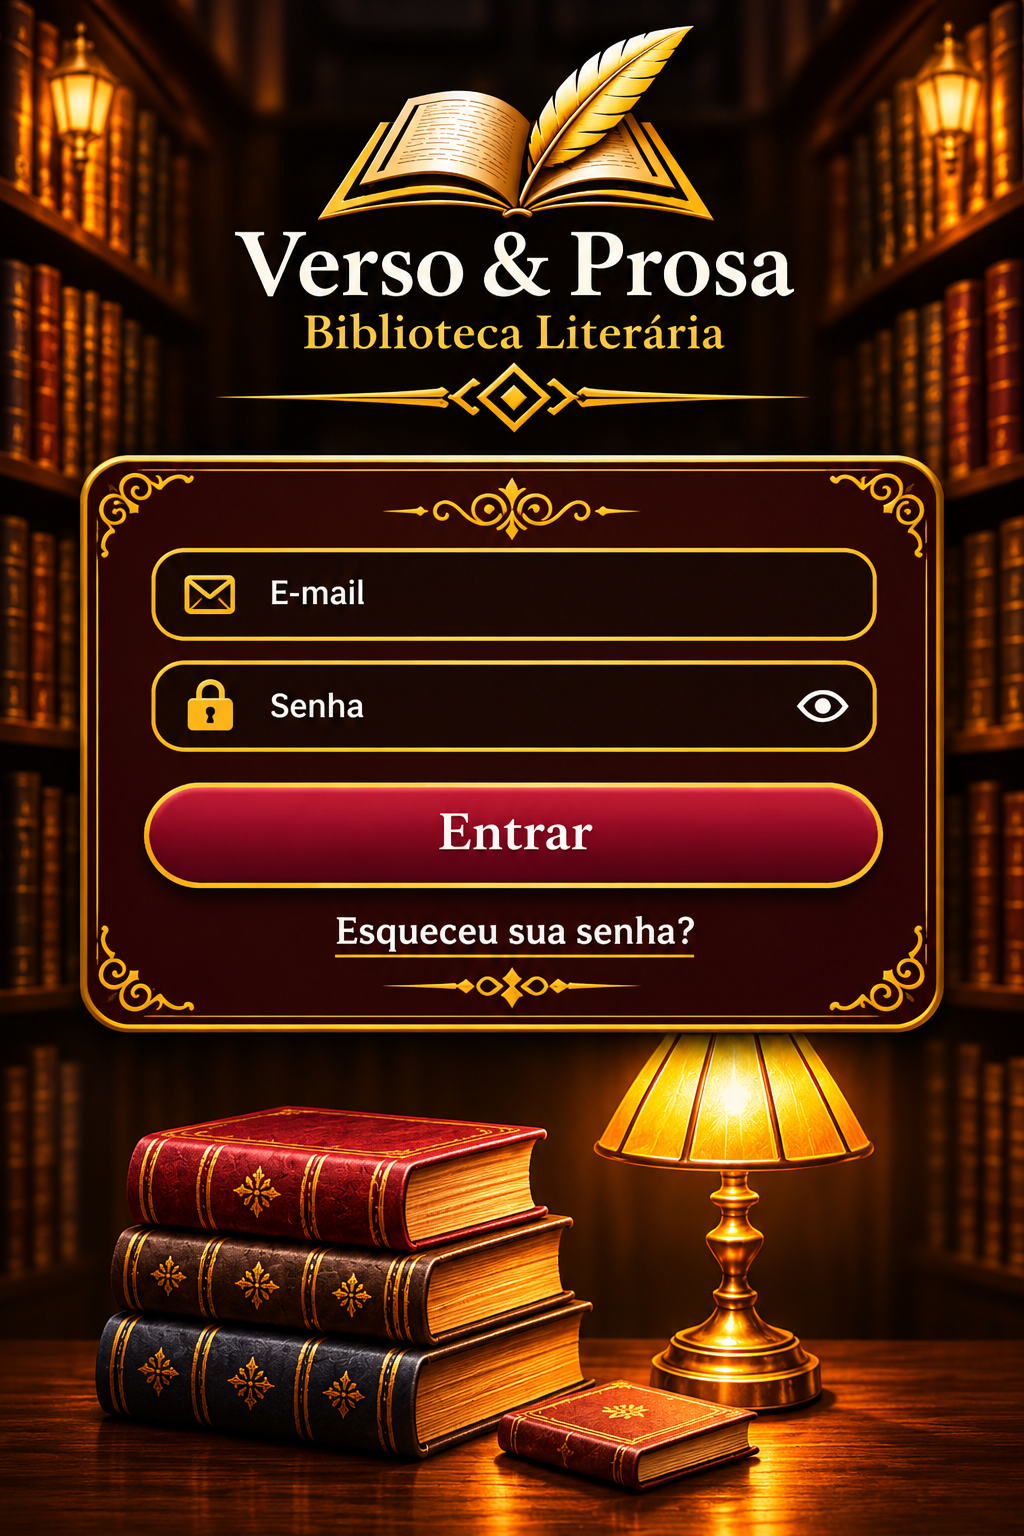
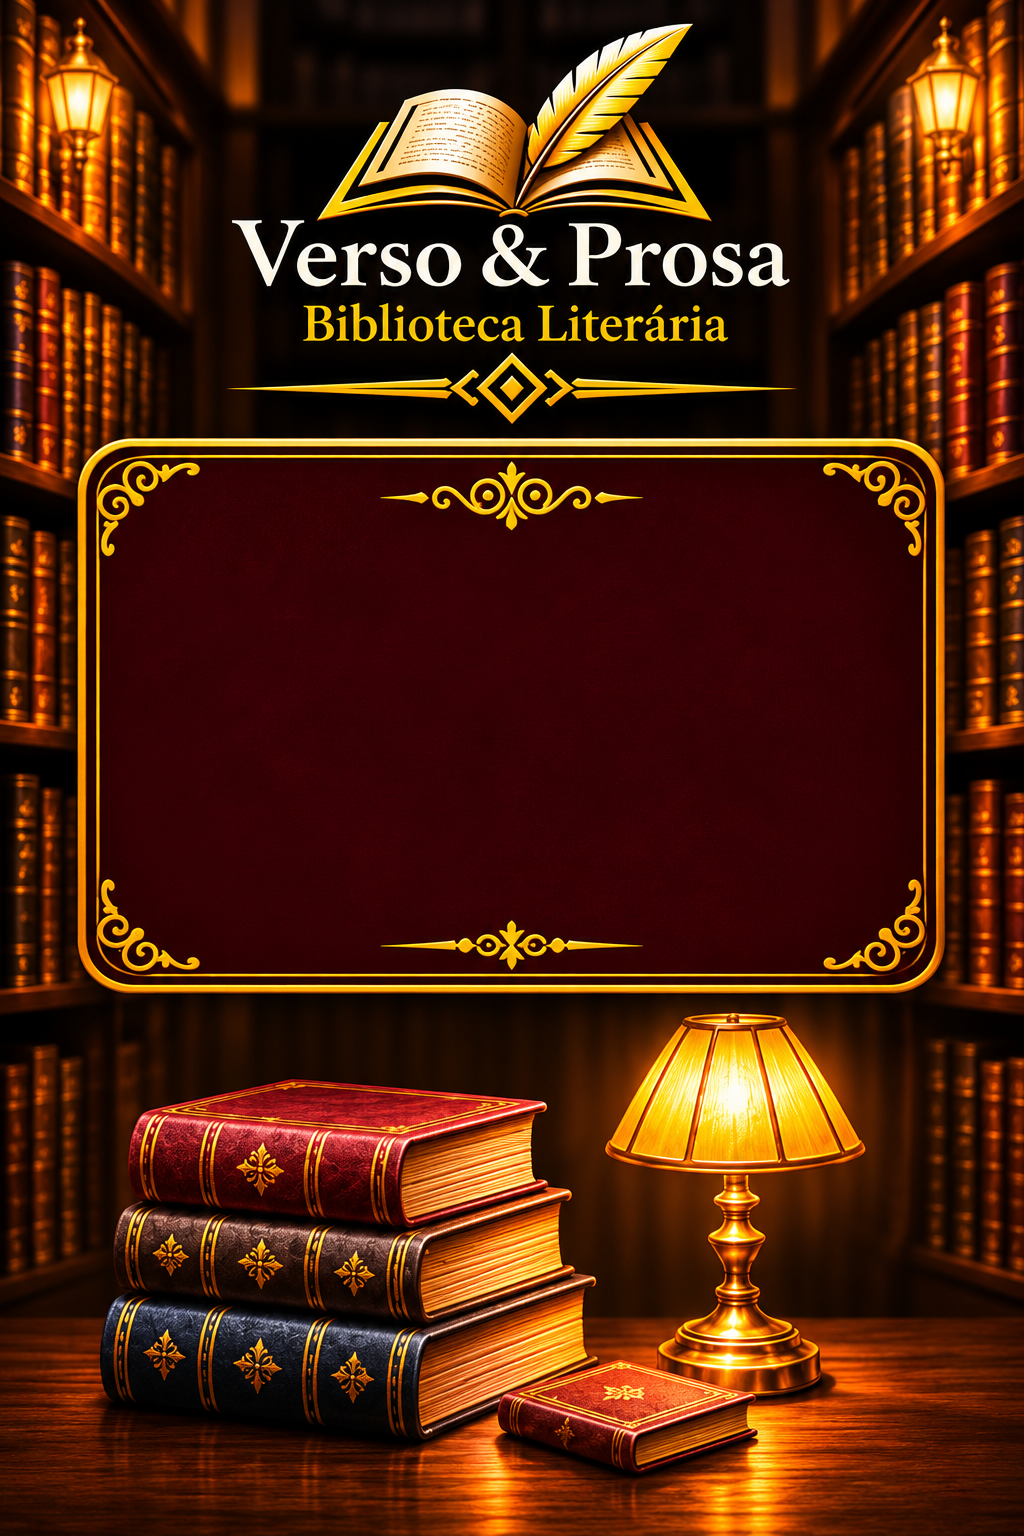
Add files via upload

diff --git a/style.css b/style.css
@@ -4687,3 +4687,86 @@ img { max-width: 100%; }
 #login .login-fields { height:12.0% !important; }
 #login .login-field { height:48.8% !important; flex:0 0 48.8% !important; }
 #login .login-eye { right:3.5% !important; }
+
+
+/* VERSO & PROSA v36 — campos realmente nítidos e funcionais.
+   A arte de fundo agora contém apenas a moldura vazia; nenhum texto/controle duplicado. */
+#login.login-screen:not(.hidden) {
+  display:flex !important; align-items:center !important; justify-content:center !important;
+  overflow:hidden !important; padding:0 !important; margin:0 !important;
+  background:#100501 !important; min-height:100dvh !important; height:100dvh !important;
+}
+#login .login-layout {
+  position:relative !important; width:min(66.6667dvh,100vw,920px) !important;
+  height:auto !important; aspect-ratio:2 / 3 !important; max-height:100dvh !important;
+  flex:0 0 auto !important; margin:auto !important; overflow:hidden !important;
+}
+#login .login-canvas { position:relative !important; width:100% !important; height:100% !important;
+  aspect-ratio:2 / 3 !important; overflow:hidden !important; background:#100501 !important; }
+#login .login-approved-master { position:absolute !important; z-index:0 !important; inset:0 !important;
+  display:block !important; width:100% !important; height:100% !important; object-fit:fill !important;
+  opacity:1 !important; filter:none !important; }
+#login .login-library-atmosphere, #login .login-bottom-scene, #login .login-brand,
+#login .login-form-frame { display:none !important; }
+#login.login-screen:not(.hidden)::before { display:none !important; content:none !important; }
+#login .login-form { position:absolute !important; inset:0 !important; z-index:2 !important;
+  width:100% !important; height:100% !important; margin:0 !important; padding:0 !important;
+  border:0 !important; background:transparent !important; }
+#login .login-form::before, #login .login-form::after { display:none !important; content:none !important; }
+#login .login-fields { position:absolute !important; top:35.9% !important; left:15.0% !important;
+  right:15.0% !important; height:13.0% !important; display:flex !important; flex-direction:column !important;
+  justify-content:space-between !important; gap:0 !important; margin:0 !important; padding:0 !important; }
+#login .login-field { position:relative !important; display:flex !important; align-items:center !important;
+  width:100% !important; height:45% !important; min-height:0 !important; max-height:none !important;
+  flex:0 0 45% !important; padding:0 3.2% !important; border:2px solid #e9b72e !important;
+  border-radius:22px !important; background:rgba(24,8,4,.82) !important;
+  box-shadow:inset 0 1px 5px rgba(0,0,0,.8),0 0 0 1px rgba(255,218,112,.22) !important; }
+#login .login-field:focus-within { border-color:#ffda67 !important;
+  box-shadow:0 0 0 2px rgba(255,207,76,.22),inset 0 1px 5px rgba(0,0,0,.8) !important; }
+#login .login-field-icon { display:block !important; position:relative !important; flex:0 0 6.5% !important;
+  width:6.5% !important; height:52% !important; margin:0 3.2% 0 0 !important;
+  fill:none !important; stroke:#f5c746 !important; stroke-width:2.2 !important; stroke-linecap:round !important;
+  stroke-linejoin:round !important; opacity:1 !important; }
+#login .login-lock-icon { fill:#e6b93e !important; stroke:#e6b93e !important; }
+#login .login-field input { position:relative !important; inset:auto !important; display:block !important;
+  flex:1 1 auto !important; width:0 !important; min-width:0 !important; height:100% !important;
+  padding:0 !important; margin:0 !important; border:0 !important; outline:0 !important;
+  color:#fff4e6 !important; -webkit-text-fill-color:#fff4e6 !important; opacity:1 !important;
+  background:transparent !important; filter:none !important; font:500 clamp(13px,2.0cqw,20px)/1.2 Arial,sans-serif !important;
+  text-shadow:0 1px 2px #000 !important; caret-color:#ffd15a !important; box-shadow:none !important; }
+#login .login-field input::placeholder { color:rgba(255,242,224,.72) !important;
+  -webkit-text-fill-color:rgba(255,242,224,.72) !important; opacity:1 !important; filter:none !important; }
+#login .login-eye { position:relative !important; inset:auto !important; display:flex !important;
+  align-items:center !important; justify-content:center !important; flex:0 0 9% !important;
+  width:9% !important; height:100% !important; margin-left:2% !important; padding:0 !important;
+  border:0 !important; background:transparent !important; color:#fff1dc !important; opacity:1 !important; }
+#login .login-eye svg { display:block !important; width:68% !important; height:68% !important;
+  fill:none !important; stroke:#fff1dc !important; stroke-width:2 !important; opacity:1 !important; }
+#login .login-submit { position:absolute !important; top:50.8% !important; left:15% !important;
+  width:70% !important; height:7.0% !important; min-height:0 !important; max-height:none !important;
+  display:flex !important; align-items:center !important; justify-content:center !important;
+  padding:0 !important; border:2px solid #efbd43 !important; border-radius:999px !important;
+  color:#fff2e4 !important; -webkit-text-fill-color:#fff2e4 !important;
+  background:linear-gradient(180deg,#d51c43 0%,#a50027 55%,#610015 100%) !important;
+  box-shadow:inset 0 2px 2px rgba(255,225,153,.55),0 4px 9px rgba(0,0,0,.62) !important;
+  font:700 clamp(17px,2.5cqw,28px)/1 Georgia,serif !important; text-shadow:0 1px 2px #43000d !important; }
+#login .login-forgot { position:absolute !important; top:59.5% !important; left:25% !important;
+  width:50% !important; height:3.5% !important; display:flex !important; align-items:center !important;
+  justify-content:center !important; padding:0 !important; border:0 !important; background:transparent !important;
+  color:#fff0df !important; -webkit-text-fill-color:#fff0df !important; font:600 clamp(12px,1.65cqw,18px)/1 Georgia,serif !important;
+  text-decoration:underline !important; text-decoration-color:#e8b83e !important; text-underline-offset:3px !important; }
+#login .login-error { position:absolute !important; top:64.2% !important; left:12% !important;
+  width:76% !important; color:#ffd7c8 !important; font-size:clamp(10px,1.25cqw,14px) !important; text-align:center !important; }
+@media (max-width:600px) {
+  #login .login-layout { width:100vw !important; height:100dvh !important; max-height:none !important; aspect-ratio:auto !important; }
+  #login .login-canvas { width:100% !important; height:100% !important; aspect-ratio:auto !important; }
+  #login .login-approved-master { object-fit:fill !important; }
+  #login .login-fields { top:35.9% !important; left:15% !important; right:15% !important; height:13% !important; }
+  #login .login-field { border-width:1.5px !important; border-radius:14px !important; }
+  #login .login-field input { font-size:clamp(12px,3.6vw,16px) !important; }
+  #login .login-submit { font-size:clamp(16px,5vw,22px) !important; }
+  #login .login-forgot { font-size:clamp(11px,3.2vw,15px) !important; }
+}
+@media (min-width:601px) and (max-width:899px) {
+  #login .login-layout { width:min(66.6667dvh,100vw) !important; height:auto !important; aspect-ratio:2/3 !important; }
+}

diff --git a/sw.js b/sw.js
@@ -1,6 +1,6 @@
-const CACHE_NAME = 'verso-prosa-login-approved-art-v35';
+const CACHE_NAME = 'verso-prosa-login-crisp-fields-v36';
 const APP_FILES = [
- './','./index.html','./assets/profiles/lele-epoca.webp','./assets/profiles/fernando-epoca.webp','./style.css?v=login-approved-art-v35','./app.js','./manifest.json',
+ './','./index.html','./assets/profiles/lele-epoca.webp','./assets/profiles/fernando-epoca.webp','./style.css?v=login-crisp-fields-v36','./app.js','./manifest.json',
  './assets/brand/verso-emblema.svg','./assets/brand/verso-prosa-logo.svg','./assets/logo-livro-pena.png','./assets/logo-livro-pena-trim.png','./assets/ornaments/home-parchment-real.webp','./assets/ornaments/home-header-sconce.svg','./assets/scenes/home-header-library.webp','./assets/ornaments/home-cover-placeholder.svg','./assets/ornaments/login-brand-divider.svg','./assets/ornaments/login-frame-classic.svg',
  './assets/icons/home-classic/book-open.svg',
  './assets/icons/home-classic/book-add.svg',

diff --git a/index.html b/index.html
@@ -16,7 +16,7 @@
 <link rel="preconnect" href="https://fonts.googleapis.com">
 <link rel="preconnect" href="https://fonts.gstatic.com" crossorigin>
 <link href="https://fonts.googleapis.com/css2?family=Cormorant+Garamond:wght@400;500;600;700&family=Lora:wght@400;500;600&display=swap" rel="stylesheet">
-<link rel="stylesheet" href="./style.css?v=login-ornament-fix-v34">
+<link rel="stylesheet" href="./style.css?v=login-crisp-fields-v36">
 </head>
 <body>
 <svg class="svg-defs" xmlns="http://www.w3.org/2000/svg" aria-hidden="true">
